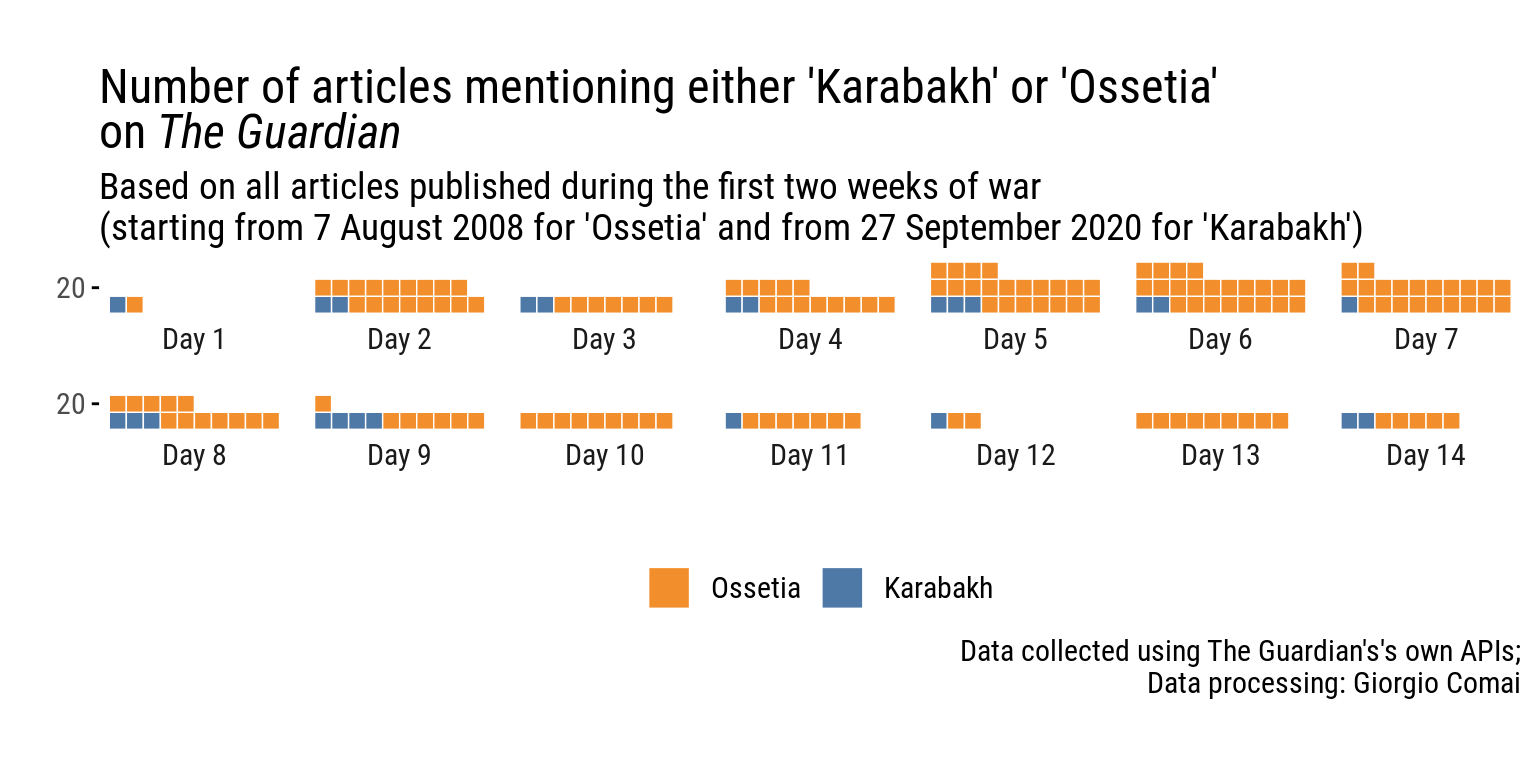
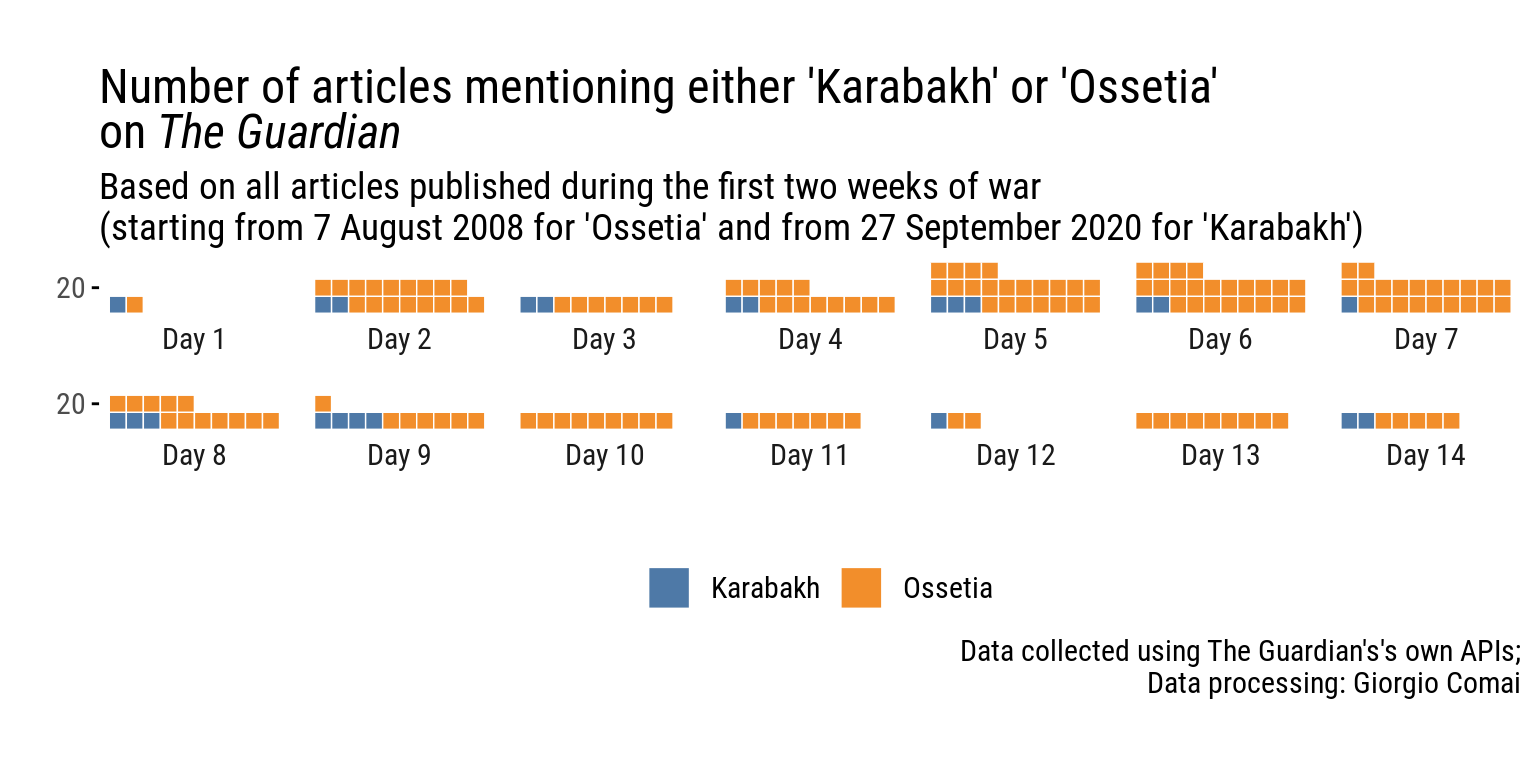
fix typo and legend order in waffle charts

Changed region(s): [[0.4062, 0.7188, 0.6562, 0.8125]]

diff --git a/content/post/2020-10-how-much-has-nagorno-karabakh-been-in-the-news/index.en.html b/content/post/2020-10-how-much-has-nagorno-karabakh-been-in-the-news/index.en.html
@@ -35,7 +35,7 @@ projects: []
 <div id="methodological-considerations" class="section level2">
 <h2>Methodological considerations</h2>
 <p>In order to gauge the relative attention dedicated to the two conflicts, I look for the number of articles that mention either the word “Karabakh” or the word “Ossetia” anywhere in the text. This is based on the understanding that any article that discusses to any meaningful extent one of these two conflicts will mention this exact words, and that these specific words would almost never appear in texts that are unrelated to the conflict.</p>
-<p>I have chosen <em>The New York Times</em> (hence, NYT) and <em>The Guardian</em> both for their obvious prominence among Western media, as well as for pragmatic considerations: both of them allow to search through their archive programmatically through dedicated APIs which are free for non-commercial use. For more details, check out the documentation for the <a href="https://developers.nytimes.com/">NYT Article Search API</a> and of <a href="https://open-platform.theguardian.com/">The Guadian’s Open Platform</a>.</p>
+<p>I have chosen <em>The New York Times</em> (hence, NYT) and <em>The Guardian</em> both for their obvious prominence among Western media, as well as for pragmatic considerations: both of them allow to search through their archive programmatically through dedicated APIs which are free for non-commercial use. For more details, check out the documentation for the <a href="https://developers.nytimes.com/">NYT Article Search API</a> and of <a href="https://open-platform.theguardian.com/">The Guardian’s Open Platform</a>.</p>
 <p>In practice, this means that with a few of lines of code, I can get a nicely formatted record of relevant articles, and that this post is fully reproducible (<a href="https://github.com/giocomai/giorgiocomai_eu/tree/master/content/post/2020-10-how-much-has-nagorno-karabakh-been-in-the-news">see source code</a>). Here are the two characteristics of these data sources that have a most direct impact on the data presented below:</p>
 <ul>
 <li>the NYT offers access also to its older articles, but only until 7 days before the present date</li>
